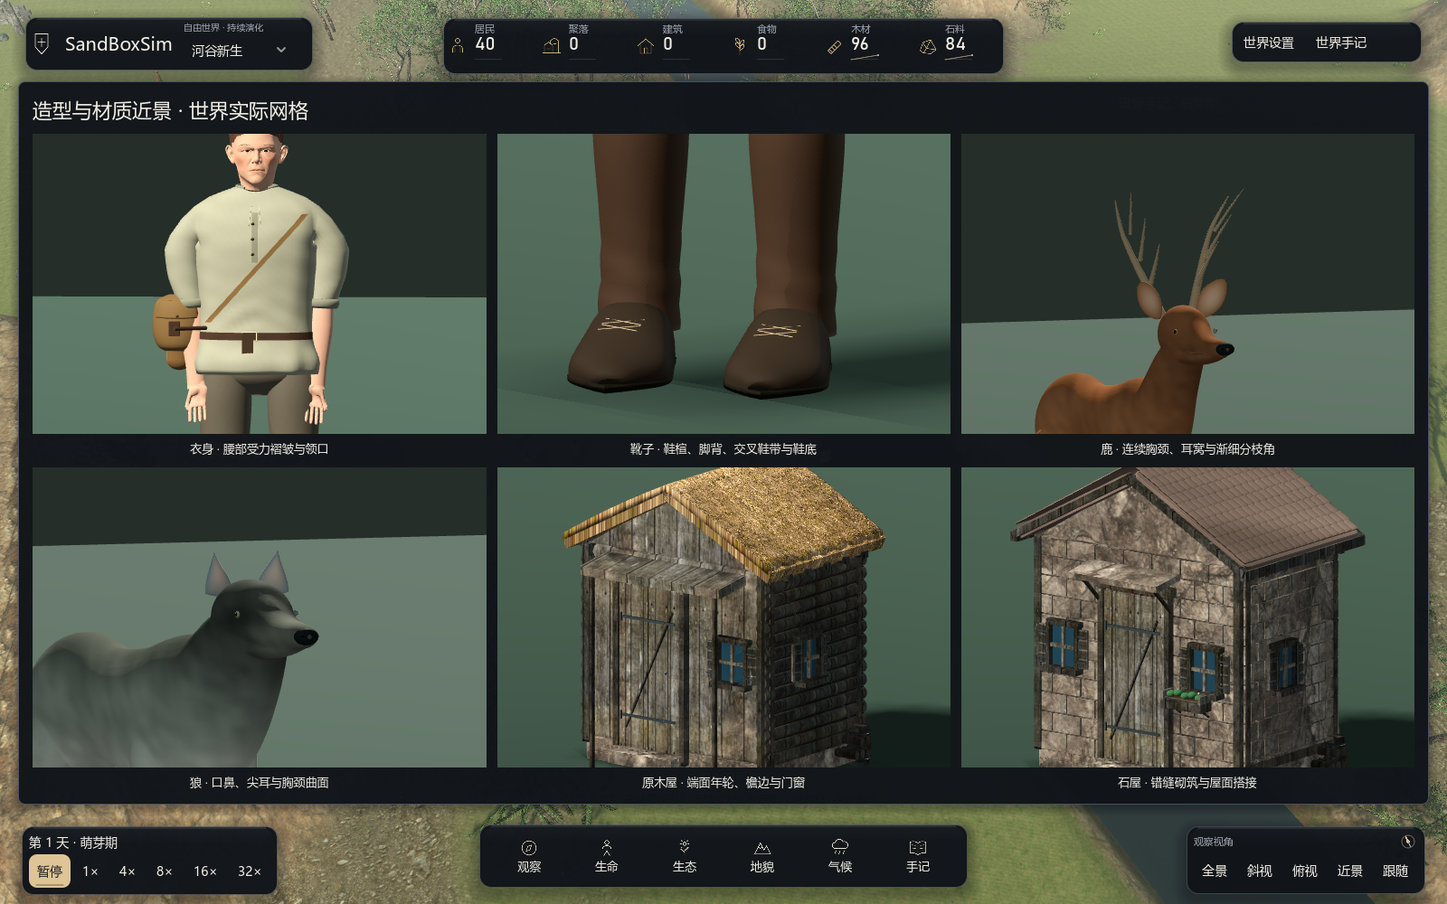
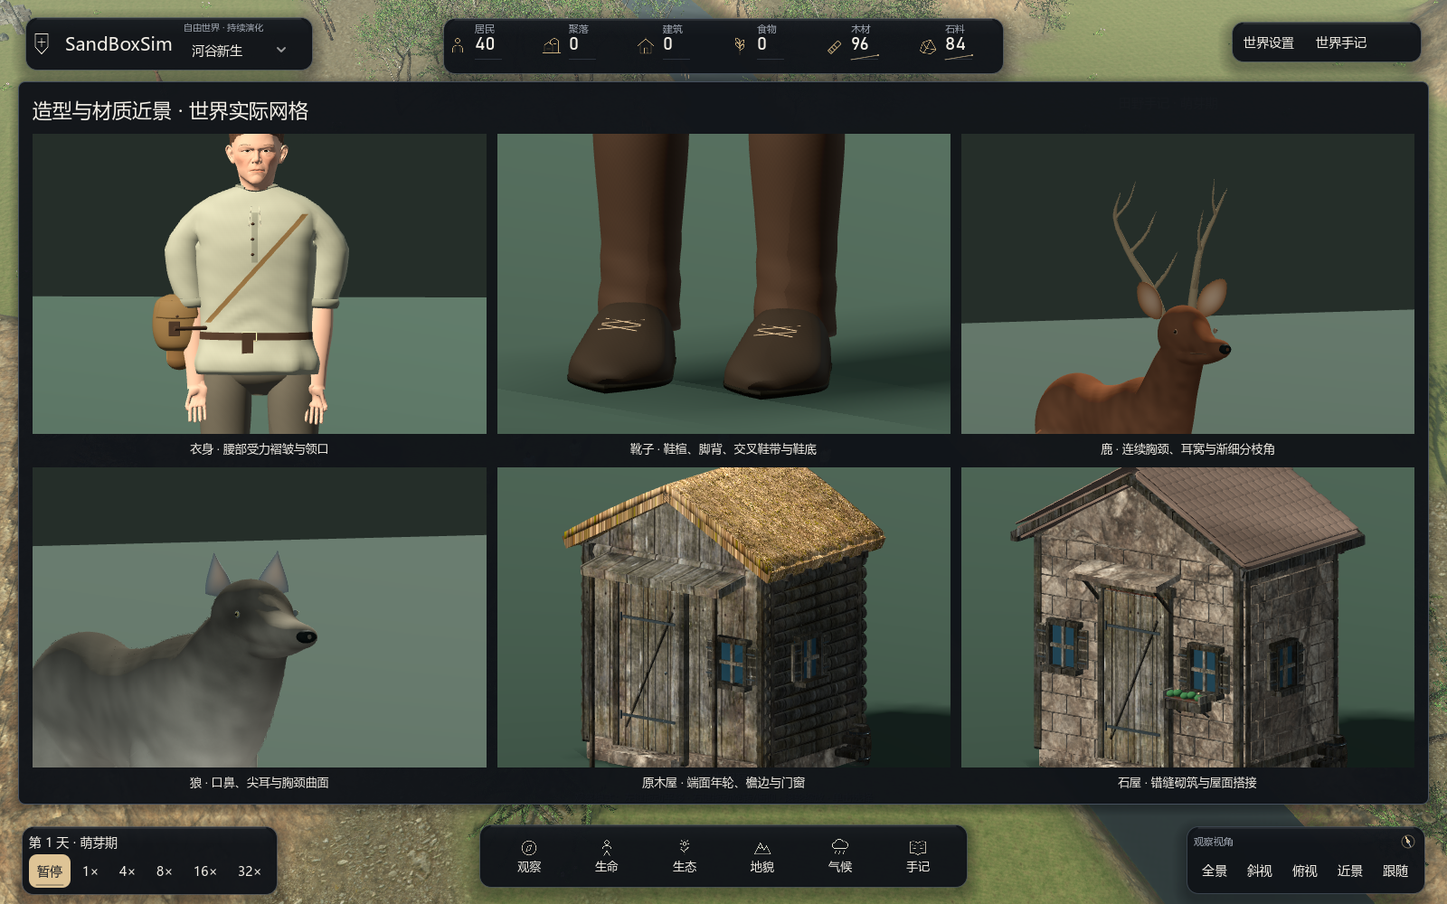
Add skinned close-range animal grooming and refine antlers and eyes

diff --git a/src/SandBoxSim.Godot/NatureModels.Animals.cs b/src/SandBoxSim.Godot/NatureModels.Animals.cs
@@ -38,15 +38,20 @@ NORMAL=normalize(abs(determinant)*NORMAL-sign(determinant)*(dFdx(fiber_height)*a
 float face_pale=smoothstep(.78,.98,-local.z)*(1.0-smoothstep(.97,1.10,local.y))*predator*.42;
 float brow_mask=exp(-pow((abs(local.x)-.092)*21.0,2.0)-pow((local.y-1.035)*22.0,2.0)-pow((local.z+.87)*12.0,2.0))*predator*.20;
 float muzzle_shade=smoothstep(.99,1.13,-local.z)*predator*.10;
-ALBEDO=mix(coat.rgb,pale.rgb,clamp(belly*.46+face_pale,0.0,.75))*(0.97+guard*.034+agouti*.10+locks+flank-saddle-dorsal-muzzle_shade-brow_mask);
-ROUGHNESS=0.81+guard*0.025; SPECULAR=0.20;
+float throat=(1.0-smoothstep(-.62,-.30,local.z))*(1.0-smoothstep(1.04,1.20,local.y))*predator*.34;
+float cheek=exp(-pow((local.z+.90)*6.0,2.0)-pow((local.y-.99)*12.0,2.0))*predator*.18;
+ALBEDO=mix(coat.rgb,pale.rgb,clamp(belly*.62+face_pale+throat+cheek,0.0,.82))*(0.97+guard*.034+agouti*.10+locks+flank-saddle-dorsal-muzzle_shade-brow_mask);
+ROUGHNESS=0.94+guard*0.025; SPECULAR=0.10;
 }" };
         var material = new ShaderMaterial { Shader = _furShader };
-        material.SetShaderParameter("coat", new Color(wolf ? "#7d8074" : "#8c6445"));
-        material.SetShaderParameter("pale", new Color(wolf ? "#d7d2bd" : "#d7c6ad"));
+        material.SetShaderParameter("coat", new Color(wolf ? "#827d72" : "#886047"));
+        material.SetShaderParameter("pale", new Color(wolf ? "#d3c9b5" : "#d8c7ab"));
         material.SetShaderParameter("predator",wolf?1f:0f);
         _residentMaterials[key] = material; return material;
     }
+    private StandardMaterial3D? _animalEyeMaterial;
+    private Material AnimalEyeMaterial()=>_animalEyeMaterial??=new StandardMaterial3D {
+        AlbedoColor=new Color("#111917"),Roughness=.22f,MetallicSpecular=.48f};
     private Mesh AnimalFoot(bool wolf)=>Loft(wolf?"animal-paw":"animal-hoof",wolf?new[]{
         new Vector4(-.125f,.021f,.004f,.005f),new(-.105f,.030f,.034f,.020f),new(-.071f,.032f,.055f,.025f),
         new(-.025f,.035f,.048f,.032f),new(.027f,.040f,.037f,.037f),new(.061f,.038f,.028f,.030f),new(.073f,.025f,.004f,.005f)
@@ -73,28 +78,37 @@ ROUGHNESS=0.81+guard*0.025; SPECULAR=0.20;
         Sculpt(rig.Head, Loft(wolf ? "wolf-head" : "deer-head", new[] {
             new Vector4(.15f,0,.008f,.015f), new(.06f,.025f,wolf?.127f:.108f,wolf?.119f:.119f), new(-.055f,.030f,wolf?.124f:.100f,.109f), new(-.12f,.002f,wolf?.103f:.080f,wolf?.079f:.077f),
             new(-.23f,-.031f,wolf?.084f:.057f,wolf?.059f:.050f), new(-.36f,-.04f,wolf?.060f:.043f,.040f), new(-.40f,-.04f,.006f,.012f) }), Vector3.Zero, fur);
-        Sculpt(rig.Head,Loft("animal-nose:"+wolf,new[]{new Vector4(-.415f,-.039f,.008f,.008f),new(-.410f,-.039f,.035f,.023f),new(-.391f,-.038f,.046f,.030f),new(-.376f,-.040f,.037f,.025f)},24),Vector3.Zero,LeatherSurface("#292e2c"));
+        Sculpt(rig.Head,Loft("animal-nose:"+wolf,new[]{new Vector4(-.415f,-.039f,.008f,.008f),new(-.410f,-.039f,wolf?.028f:.021f,.018f),new(-.391f,-.038f,wolf?.036f:.028f,.023f),new(-.376f,-.040f,wolf?.031f:.025f,.021f)},24),Vector3.Zero,LeatherSurface("#292e2c"));
         Sculpt(rig.Head,Loft("animal-jaw-"+wolf,new[]{new Vector4(-.04f,-.075f,.078f,.034f),new(-.16f,-.080f,.068f,.033f),new(-.29f,-.072f,.048f,.022f),new(-.36f,-.059f,.021f,.010f)}),Vector3.Zero,fur);
         // The mouth crease follows the lower muzzle; nostrils are inset into the nose.
         foreach(float side in new[]{-1f,1f})
         {
             FineBeam(rig.Head,new(side*.055f,-.061f,-.31f),new(side*.072f,-.058f,-.19f),.003f,"#51493d");
-            Detail(rig.Head,"sphere",new(side*.026f,-.037f,-.415f),new(.012f,.007f,.004f),"#181e1a");
+            Detail(rig.Head,"sphere",new(side*(wolf?.021f:.016f),-.037f,-.411f),new(.008f,.005f,.003f),"#181e1a");
         }
         foreach (float side in new[] {-1f,1f})
         {
             Detail(rig.Head,"sphere",new(side*(wolf?.109f:.100f),.037f,-.102f),new(.009f,.025f,.036f),wolf?"#696d69":"#8b725d");
             Detail(rig.Head,"sphere",new(side*(wolf?.112f:.103f),.038f,-.105f),new(.008f,.017f,.026f),wolf?"#8b825d":"#473a2c");
-            Detail(rig.Head,"sphere",new(side*(wolf?.116f:.107f),.038f,-.106f),new(.005f,.014f,.012f),"#111917");
+            Detail(rig.Head,"sphere",new(side*(wolf?.116f:.107f),.038f,-.106f),new(.005f,wolf?.012f:.0045f,wolf?.012f:.020f),"#111917").MaterialOverride=AnimalEyeMaterial();
             Detail(rig.Head,"sphere",new(side*(wolf?.119f:.110f),.042f,-.110f),Vector3.One*.0025f,"#e7ebe5");
             var ear=rig.Ears[side<0?0:1]=new Node3D {Name=side<0?"LeftEar":"RightEar",Position=new(side*.098f,.095f,.045f)};rig.Head.AddChild(ear);
             ear.Rotation=new(0,side*.25f,-side*(wolf?.18f:.65f));rig.EarRest[side<0?0:1]=ear.Rotation;
             Sculpt(ear,AnimalEar(wolf),Vector3.Zero,_earMaterial);
             if (!wolf)
             {
-                Sculpt(rig.Head,AntlerBranch("antler-main:"+side,new[]{new Vector3(side*.073f,.10f,.07f),new(side*.14f,.27f,.12f),new(side*.22f,.47f,.16f),new(side*.29f,.64f,.10f)},.023f),Vector3.Zero,ResidentMaterial("#8e7c63"));
-                for(int i=0;i<3;i++)
-                    Sculpt(rig.Head,AntlerBranch("antler-tine:"+side+":"+i,new[]{new Vector3(side*(.12f+i*.047f),.24f+i*.12f,.10f),new(side*(.13f+i*.06f),.34f+i*.12f,.025f),new(side*(.15f+i*.07f),.44f+i*.12f,-.06f)},.012f-i*.002f),Vector3.Zero,ResidentMaterial("#8e7c63"));
+                // Swept main beam and unequal tines grow from its actual
+                // control points, instead of parallel disconnected twig rows.
+                var beam=new[]{new Vector3(side*.073f,.10f,.07f),new(side*.105f,.22f,.105f),
+                    new(side*.18f,.39f,.18f),new(side*.255f,.55f,.17f),new(side*.27f,.67f,.08f)};
+                Sculpt(rig.Head,AntlerBranch("antler-main:"+side,beam,.022f),Vector3.Zero,ResidentMaterial("#8e7c63"));
+                var forks=new[]{
+                    new[]{beam[1],new Vector3(side*.080f,.30f,.015f),new(side*.060f,.40f,-.065f)},
+                    new[]{beam[2],new Vector3(side*.135f,.47f,.105f),new(side*.120f,.58f,.025f)},
+                    new[]{beam[3],new Vector3(side*.215f,.62f,.115f),new(side*.200f,.72f,.065f)}};
+                for(int tine=0;tine<forks.Length;tine++)
+                    Sculpt(rig.Head,AntlerBranch("antler-tine:"+side+":"+tine,forks[tine],.011f-tine*.0018f),Vector3.Zero,ResidentMaterial("#8e7c63"));
+
             }
         }
         for(int i=0;i<4;i++)

diff --git a/src/SandBoxSim.Godot/NatureModels.Coat.cs b/src/SandBoxSim.Godot/NatureModels.Coat.cs
@@ -1,0 +1,80 @@
+using System;
+using System.Collections.Generic;
+using Godot;
+
+namespace SandBoxSim.Client;
+
+internal sealed partial class NatureModels
+{
+    // Close-range coat geometry grows from the actual continuous skin, with
+    // barycentrically transferred weights. It is shared by all animals of a kind.
+    private Mesh GroomAnimalCoat(Mesh skin,bool wolf)
+    {
+        string key="groomed-coat:"+wolf;
+        if(_meshes.TryGetValue(key,out var cached))return cached;
+        var a=skin.SurfaceGetArrays(0);
+        var p=a[(int)Mesh.ArrayType.Vertex].AsVector3Array();
+        var n=a[(int)Mesh.ArrayType.Normal].AsVector3Array();
+        var ix=a[(int)Mesh.ArrayType.Index].AsInt32Array();
+        var bs=a[(int)Mesh.ArrayType.Bones].AsInt32Array();
+        var ws=a[(int)Mesh.ArrayType.Weights].AsFloat32Array();
+        var cumulative=new List<float>();var eligible=new List<int>();float area=0;
+        for(int t=0;t<ix.Length;t+=3)
+        {
+            var center=(p[ix[t]]+p[ix[t+1]]+p[ix[t+2]])/3;
+            // Keep muzzle/eyes, paws and hooves readable. Ribbons are for coat,
+            // not a replacement for the face or the underlying anatomy.
+            if(center.Y<.18f||center.Z<-.88f)continue;
+            float weight=(p[ix[t+1]]-p[ix[t]]).Cross(p[ix[t+2]]-p[ix[t]]).Length();
+            if(weight<.000001f)continue;
+            area+=weight;cumulative.Add(area);eligible.Add(t);
+        }
+        if(area<=0)throw new InvalidOperationException("Empty animal grooming surface");
+        uint seed=wolf?76123u:19871u;
+        float Random(){seed^=seed<<13;seed^=seed>>17;seed^=seed<<5;return (seed&0xFFFFFF)/16777216f;}
+        using var surface=new SurfaceTool();surface.Begin(Mesh.PrimitiveType.Triangles);
+        var coat=new ShaderMaterial {Shader=new Shader {Code=((ShaderMaterial)Fur(wolf)).Shader.Code.Replace("shader_type spatial;","shader_type spatial;render_mode cull_disabled;")}};
+        foreach(string field in new[]{"coat","pale","predator"})coat.SetShaderParameter(field,((ShaderMaterial)Fur(wolf)).GetShaderParameter(field));
+        surface.SetMaterial(coat);
+        int strands=wolf?2200:1200;
+        for(int strand=0;strand<strands;strand++)
+        {
+            int selected=cumulative.BinarySearch(Random()*area);if(selected<0)selected=~selected;
+            int t=eligible[Math.Min(selected,eligible.Count-1)];
+            float r=MathF.Sqrt(Random()),s=Random();float[] bary={1-r,r*(1-s),r*s};
+            var root=Vector3.Zero;var normal=Vector3.Zero;var influence=new float[12];
+            for(int k=0;k<3;k++)
+            {
+                int v=ix[t+k];root+=p[v]*bary[k];normal+=n[v]*bary[k];
+                for(int j=0;j<4;j++)influence[bs[v*4+j]]+=ws[v*4+j]*bary[k];
+            }
+            normal=normal.Normalized();
+            var order=new int[12];for(int k=0;k<12;k++)order[k]=k;
+            Array.Sort(order,(x,y)=>influence[y].CompareTo(influence[x]));
+            var bones=new[]{order[0],order[1],order[2],order[3]};
+            float total=0;for(int k=0;k<4;k++)total+=influence[bones[k]];
+            var weights=new float[4];for(int k=0;k<4;k++)weights[k]=influence[bones[k]]/total;
+            // Coat lays toward the rump and down the flanks. Shoulder guard
+            // hairs stand slightly longer; the deer keeps a close summer coat.
+            var flow=new Vector3(0,-.65f,.8f);flow=(flow-normal*flow.Dot(normal)).Normalized();
+            if(flow.LengthSquared()<.5f)flow=normal.Cross(Vector3.Right).Normalized();
+            var across=normal.Cross(flow).Normalized();
+            float ruff=wolf?MathF.Exp(-MathF.Pow((root.Z+.4f)/.25f,2)):0;
+            float length=(wolf?.016f:.0045f)*(0.65f+Random()*.6f)*(1+ruff*.8f);
+            float width=wolf?.0014f:.0007f;
+            for(int plane=0;plane<2;plane++)
+            {
+                var spread=plane==0?across:(across+normal*.5f).Normalized();
+                var basePoint=root-normal*.0004f;
+                var middle=root+normal*length*.12f+flow*length*.45f;
+                var tip=root+normal*length*.17f+flow*length;
+                void V(Vector3 point){surface.SetBones(bones);surface.SetWeights(weights);surface.SetNormal(normal);surface.SetUV(Vector2.Zero);surface.AddVertex(point);}
+                void Tri(Vector3 x,Vector3 y,Vector3 z){if((y-x).Cross(z-x).Dot(normal)>0)(y,z)=(z,y);V(x);V(y);V(z);}
+                Tri(basePoint-spread*width,basePoint+spread*width,middle-spread*width*.65f);
+                Tri(basePoint+spread*width,middle+spread*width*.65f,middle-spread*width*.65f);
+                Tri(middle-spread*width*.65f,middle+spread*width*.65f,tip);
+            }
+        }
+        surface.Index();var mesh=surface.Commit();_meshes[key]=mesh;return mesh;
+    }
+}

diff --git a/src/SandBoxSim.Godot/NatureModels.Validation.cs b/src/SandBoxSim.Godot/NatureModels.Validation.cs
@@ -141,6 +141,28 @@ internal sealed partial class NatureModels
         {
             var animal=(AnimalRig)Animal(wolf); animal.Pose(.2f,true,false);
             if(animal.FurSkeleton==null||animal.FurSkin==null||animal.FurSkeleton.GetBoneCount()!=12)throw new InvalidOperationException("Animal lacks a continuous skeletal surface");
+            var grooming=animal.Body.GetNode<MeshInstance3D>("GuardHairCoat");
+            if(grooming.Skin!=animal.FurSkin.Skin||grooming.Skeleton!=animal.FurSkin.Skeleton||grooming.VisibilityRangeEnd!=18)
+                throw new InvalidOperationException("Animal grooming loses shared articulation or distance limit");
+            var groom=grooming.Mesh.SurfaceGetArrays(0);var groomPoints=groom[(int)Mesh.ArrayType.Vertex].AsVector3Array();
+            var groomBones=groom[(int)Mesh.ArrayType.Bones].AsInt32Array();var groomWeights=groom[(int)Mesh.ArrayType.Weights].AsFloat32Array();
+            if(groom[(int)Mesh.ArrayType.Index].AsInt32Array().Length!=(wolf?2200:1200)*18)
+                throw new InvalidOperationException("Animal grooming exceeds fixed strand budget");
+            if(GroomAnimalCoat(animal.FurSkin.Mesh,wolf)!=grooming.Mesh)
+                throw new InvalidOperationException("Animal grooming cache not reused");
+            for(int v=0;v<groomPoints.Length;v++)
+            {
+                float sum=0;
+                for(int j=0;j<4;j++)
+                {
+                    int k=v*4+j;
+                    if(groomBones[k]<0||groomBones[k]>=12||groomWeights[k]<0||!float.IsFinite(groomWeights[k]))
+                        throw new InvalidOperationException("Invalid animal grooming binding");
+                    sum+=groomWeights[k];
+                }
+                if(!groomPoints[v].IsFinite()||MathF.Abs(sum-1)>.0001f)
+                    throw new InvalidOperationException("Animal grooming has invalid geometry/weights");
+            }
             var coat=animal.FurSkin.Mesh.SurfaceGetArrays(0);var coatPoints=coat[(int)Mesh.ArrayType.Vertex].AsVector3Array();
             var coatIndices=coat[(int)Mesh.ArrayType.Index].AsInt32Array();var coatBones=coat[(int)Mesh.ArrayType.Bones].AsInt32Array();var coatWeights=coat[(int)Mesh.ArrayType.Weights].AsFloat32Array();
             var coatEdges=new System.Collections.Generic.Dictionary<long,int>();var parent=new int[coatPoints.Length];for(int i=0;i<parent.Length;i++)parent[i]=i;
@@ -169,6 +191,6 @@ internal sealed partial class NatureModels
         }
         // The textured broadleaf includes duplicated UV/normal seam vertices.
         Validate(Tree(false),false,220000); Validate(Tree(true),false,190000);
-        GD.Print("CRAFTED_MODELS_PASS: 80 architecture LOD variants/states, deer/wolf gait, pause and embedded thigh roots, vegetation, finite geometry/normals/UV and consolidation budgets");
+        GD.Print("CRAFTED_MODELS_PASS: 80 architecture LOD variants/states, deer/wolf groomed coat binding/cache/budget, gait, pause and embedded thigh roots, vegetation, finite geometry/normals/UV and consolidation budgets");
     }
 }

diff --git a/src/SandBoxSim.Godot/NatureModels.OrganicAssets.cs b/src/SandBoxSim.Godot/NatureModels.OrganicAssets.cs
@@ -67,6 +67,10 @@ internal sealed partial class NatureModels
             var local=i==0?Transform3D.Identity:nodes[i].Transform;skeleton.SetBoneRest(i,local);rest[i]=InTorso(nodes[i],rig.Body);skin.AddBind(i,rest[i].AffineInverse());
         }
         skeleton.ResetBonePoses();rig.FurSkin=new MeshInstance3D {Name="ContinuousCoat",Mesh=mesh,Skin=skin,Skeleton=new NodePath("../FurSkeleton")};rig.Body.AddChild(rig.FurSkin);
+        var groom=new MeshInstance3D {Name="GuardHairCoat",Mesh=GroomAnimalCoat(mesh,wolf),Skin=skin,
+            Skeleton=new NodePath("../FurSkeleton"),VisibilityRangeEnd=18,VisibilityRangeEndMargin=3};
+        rig.Body.AddChild(groom);
+
     }
     private static Node3D[] AnimalBones(AnimalRig rig)=>new[]{rig.Body,rig.Head,rig.Tail,rig.Legs[0],rig.Knees[0],rig.Legs[1],rig.Knees[1],rig.Legs[2],rig.Knees[2],rig.Legs[3],rig.Knees[3],rig.Neck};
 }

diff --git a/docs/development/models.md b/docs/development/models.md
@@ -193,6 +193,7 @@
 | `NatureModels.ResidentLod.cs` | 保留轮廓与肤发色的远景头部网格 |
 | `NatureModels.HandlingValidation.cs` | 工具转移连续性、握持、作业、切换、携带与暂停检查 |
 | `NatureModels.Sculpture.cs` | 远景头部、贴合发壳与布料表面 |
+| `NatureModels.Coat.cs` | 皮肤表面采样、贴伏毛束、权重插值和几何缓存 |
 | `NatureModels.Animals.cs`、`AnimalRig.cs` | 动物解剖轮廓、材质与四足步态 |
 | `NatureModels.Meadow.cs` | 保留的程序草叶构造器；当前世界使用授权草丛数据 |
 | `NatureModels.Botanical.cs` | 程序植物辅助结构、材料与植物几何检查 |
@@ -213,11 +214,19 @@
 
 新网格需要采用 Godot 的顺时针正面约定，并保持朝外法线。截面插值保留轮廓；不要仅提高球体细分来替代身体结构。静态部件按材质合并，动物和居民保留活动关节。建筑变体键限制到 140 个稳定组合，图册和地图共用缓存规则。
 
+## 动物毛束与面部细节
+
+狼和鹿在连续皮肤外增加近景短毛束，根部按实际皮肤三角面面积分布，并插值该处法线和骨骼权重。狼有 2,200 组、鹿有 1,200 组，每组两个相交的渐细弧面；近景分别增加 13,200、7,200 三角面与一个绘制表面。毛束朝后、朝下贴伏，狼肩颈较长，鹿保持短被毛；口鼻和蹄足排除在生成区域之外。毛束并非毛发物理或扫描动物资产。
+
+两种毛束网格分别缓存，与皮肤共用现有 12 骨架和姿态更新。距离 18 米隐藏细节层、范围余量 3 米，远景保留原皮肤；这是增加近景质量的开销，不代表帧率改善。自检核对权重、骨骼范围、缓存、固定几何预算、共用骨架和距离条件。
+
+鹿角的三个侧枝从弯曲主枝控制点生长，替换平行且根部不贴合的枝条；两侧保持镜像主结构。鹿瞳孔改为横向，瞳孔表面采用较低粗糙度，鹿和狼鼻头按种类收窄，鼻孔随之移动。它们仍沿用现有动物躯干基础网格与动作。
+
 ## 独立预览
 
 当前住房门高为模型局部 1.75 米、门宽 0.82 米，仓库为 1.85/0.95 米；原木屋墙高提高到 2.05 米、仓库到 2.2 米，门框、门板、雨檐与廊柱同步。尺寸还会受建筑根节点缩放影响，模拟占地没有扩大，仍不提供可进入的室内。茅草坡屋面改为连续厚壳与参差檐口，替换瓦片式矩形草束排布；石墙保留扫描细节并降低矿物金色饱和度。
 
-鹿与狼调整了胸腔、腰腹、髋部和上腿体积，腿根向躯干内收并重新焊接烘焙；每种仍为 18,000 三角面。狼的眼部挂点同步贴近收窄的头部，耳廓采用较短的弧形轮廓；毛皮颜色区分背线与腹侧，但仍没有真实毛发系统。人物使用贴合头皮的弧面发束；头脸沿用同一授权来源，导出恢复统一比例，具体转换见上文。
+鹿与狼调整了胸腔、腰腹、髋部和上腿体积，腿根向躯干内收并重新焊接烘焙；每种仍为 18,000 三角面。狼的眼部挂点同步贴近收窄的头部，耳廓采用较短的弧形轮廓；毛皮颜色区分背线与腹侧。近景额外使用共用骨架的短毛束，见下文；目前没有完整毛发物理或换毛系统。人物使用贴合头皮的弧面发束；头脸沿用同一授权来源，导出恢复统一比例，具体转换见上文。
 
 先运行 `./tools/godot.ps1 -Mode build -Configuration Debug`，再通过 Godot .NET 可执行文件打开项目：
 

diff --git a/docs/images/README.md b/docs/images/README.md
@@ -24,7 +24,7 @@
 
 `terrain-modern.png`、`terrain-closeup.png` 更新为 2026-10-22 肩袖/动物造型修改后的 1600×1000 原生渲染。它们使用公开 `visual-landscape` 场景的第 40、80 帧，种子 839102、40 人、零步进，第二张切换近景，展示交叉草地采样和斑块岸色。冻结场景用于比较画面，不代表流畅度测试。
 
-`resident-face-detail.png`、`character-detail.png`、`model-surface-detail.png`、`resident-garment-actions.png` 和 `wardrobe-detail.png` 为同日的共顶点衣片/统一头脸比例版本，分别使用 `faces`、`characters`、`model-details`、`actions`、`wardrobe` 入口，1600×1000、`--capture-delay=2.4 --max-fps 30 --quit-after 140`。图片保留实际渲染像素，展示三种衣片拓扑、近景弧面发束、头脸比例及现有动物；动物、建筑和地形没有在这轮人物改动中重做。解剖近景保持动物头部可见，综合图册仍演示进食。
+`resident-face-detail.png`、`resident-garment-actions.png` 和 `wardrobe-detail.png` 为同日的共顶点衣片/统一头脸比例版本，使用 `faces`、`actions`、`wardrobe` 入口。`character-detail.png` 和 `model-surface-detail.png` 更新为后续动物短毛束、鹿角侧枝及眼鼻调整版本，使用 `characters`、`model-details`。这些图片均为 1600×1000 原生渲染，参数为 `--capture-delay=2.4 --max-fps 30 --quit-after 140`，没有重绘。人物、建筑与地形没有在动物细节修改中重做；解剖近景保持动物头部可见，综合图册仍演示进食。
 
 `architecture-detail.png` 为同日之前的入口尺度与扫描茅草屋面版本。
 

diff --git a/README.md b/README.md
@@ -44,7 +44,7 @@ Windows 配置完成后可以双击 [Play-3D.cmd](Play-3D.cmd)。Linux/macOS 根
 
 人物页可旋转、俯仰和缩放肖像，并切换面部、手部与全身；握持、拿取、交谈和搬运跟随居民实际行为，世界角色平滑转向并对脚下坡面作小幅补偿。人物使用连续手部蒙皮、独立指节和贴合面部的眼睑，模型与配件说明见 [3D 模型系统](docs/development/models.md)。
 
-近景上衣使用共用袖窿顶点的缝片拓扑，保留三种剪裁与原有动作；头脸恢复统一比例转换，近景头发增加贴合头皮的弧面发束；鹿、狼重新调整胸腹和腿根体块。建筑同步入口尺度，茅草坡屋面采用带厚度与参差檐口的连续结构。离线模型重建与当前表现边界见 [模型说明](docs/development/models.md)。
+近景上衣使用共用袖窿顶点的缝片拓扑，保留三种剪裁与原有动作；头脸恢复统一比例转换，近景头发增加贴合头皮的弧面发束；鹿、狼保留连续皮肤，并增加近景贴伏毛束、修正鹿角分叉和眼鼻细节。建筑同步入口尺度，茅草坡屋面采用带厚度与参差檐口的连续结构。离线模型重建与当前表现边界见 [模型说明](docs/development/models.md)。
 
 UI 使用统一炭灰面板、无衬线标题、浅色文字与暖沙色状态反馈，人物肖像保留较大的近景观察区域。建筑、人物与动物共享可复用几何和材质，近景提供更多细节，远景使用 LOD；当前表现与操作说明见 [观察与界面](docs/guides/gameplay-observation.md)。
 

diff --git a/docs/development/performance.md b/docs/development/performance.md
@@ -58,6 +58,8 @@ python tools/evaluate.py compare runs/evaluation/baseline-1 runs/evaluation/cand
 
 近景上衣加载缝片生成的三种蒙皮，每种 6,784–6,840 三角面；网格和成品哈希校验按剪裁缓存，创建带配色的实例时复用同一几何。袖子骨骼数组只读取一次，不能在逐顶点循环中反复从 Godot 导出。近景移除原分件上袖，远景恢复轻量分件与原有动作。连续茅草坡面按近远景采样不同密度。它们属于模型质量改动，没有当前版本的配对帧率结论。
 
+近景动物短毛束按种类缓存：狼增加 13,200 三角面，鹿增加 7,200 三角面，各增加一个绘制表面；共用原有骨骼更新。毛束层在 18 米外隐藏，范围余量 3 米。该改动增加近景成本，尚无配对帧率结论。
+
 ## CPU 区段
 
 `result.json` 的 `cpuScopes` 在预热结束时清空，通过 [RenderProfile.cs](../../src/SandBoxSim.Godot/RenderProfile.cs) 记录主线程工作：

diff --git a/CHANGELOG.md b/CHANGELOG.md
@@ -4,6 +4,8 @@
 
 ## 2026-10-22
 
+- 动物近景增加从连续皮肤采样的贴伏毛束，共用原骨架、按种类缓存并限制显示距离；补充权重、缓存、预算与骨架自检。鹿角侧枝连接主枝，鹿瞳孔改为横向，鼻头与鼻孔按种类收窄，毛皮降低塑料高光。
+
 - 上衣改为共用袖窿顶点的缝片拓扑，取消体素焊接、封口与最近点权重转移；移除旧肩部填缝球体，三种剪裁为 6,784–6,840 三角面。新增四个开口边界环、流形边和左右袖口绑定回归检查。
 - 人物头脸恢复统一比例导出，取消单独压缩纵深和局部五官推移；同步眼唇与头皮数据。近景发型增加 180 组贴合的渐细弧面发束，远景保持原有轻量轮廓。更新模型构建说明、来源修改记录及实际近景配图。
 

diff --git a/src/README.md b/src/README.md
@@ -29,6 +29,7 @@
 | 人物姿态与握持 | `SandBoxSim.Godot/ResidentRig.cs`、`ResidentRig.HandPose.cs` |
 | 网格、材质和草丛 | `SandBoxSim.Godot/NatureModels*.cs` |
 | 连续上衣与草束屋面 | `SandBoxSim.Godot/NatureModels.GarmentSkin.cs`、`NatureModels.Thatch.cs`、`assets/models/garments/` |
+| 动物近景毛束 | `SandBoxSim.Godot/NatureModels.Coat.cs`、`NatureModels.OrganicAssets.cs`、`AnimalRig.cs` |
 | 面部与人物肖像 | `SandBoxSim.Godot/NatureModels.Face.cs`、`NatureModels.CharacterSurface.cs`、`ResidentPortrait.cs` |
 | 固定场景评测 | `SandBoxSim.Godot/MainGame.Evaluation.cs` |
 
